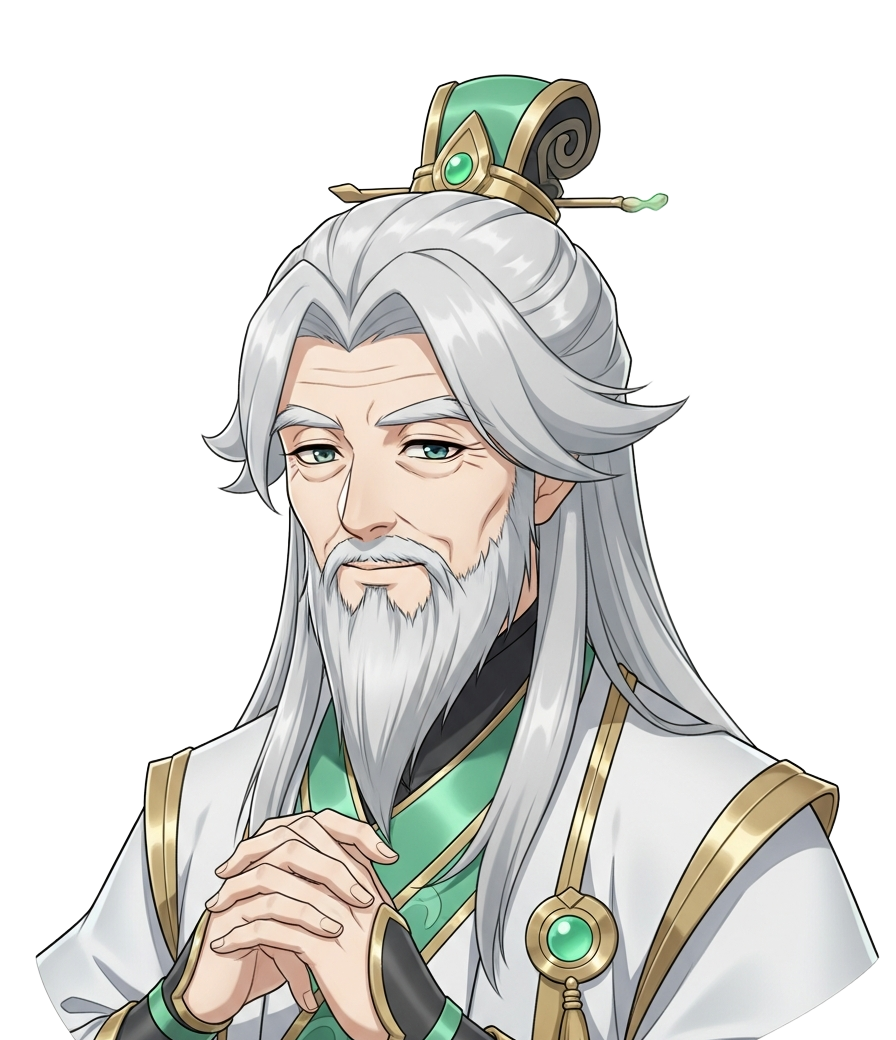
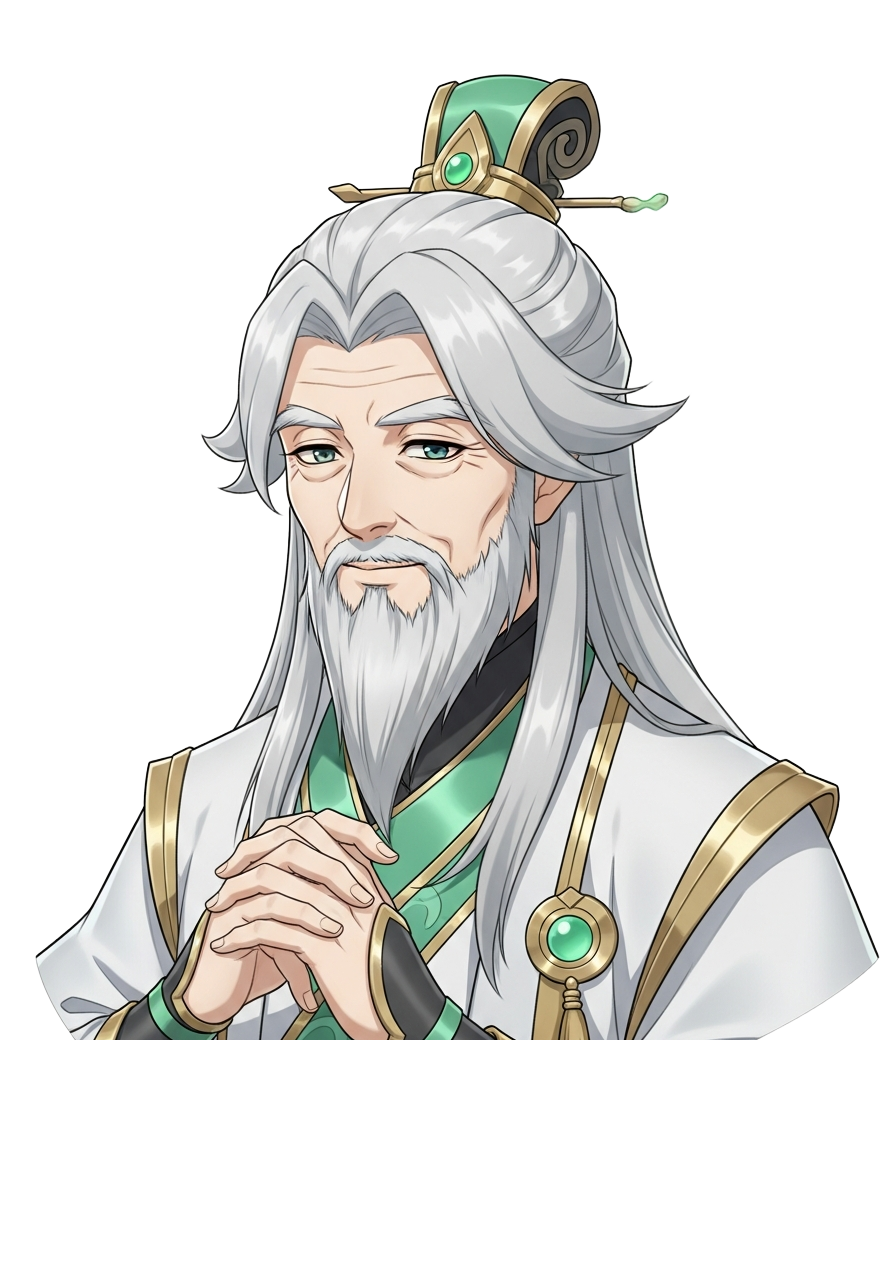
Update character sprites and portrait proportions for visual consistency
Refactors sprite asset paths, resizes VN portraits to a uniform 896x1280, and adjusts dialogue scene widths to better fit larger character art, while also fixing a broken asset reference for Florence Nightingale.

Replit-Commit-Author: Agent
Replit-Commit-Session-Id: 888092a9-07bb-434c-a266-2e5eb90ffa4c
Replit-Commit-Checkpoint-Type: full_checkpoint
Replit-Commit-Event-Id: 22db33e9-cb74-4f11-ac52-31f82e157579
Replit-Commit-Screenshot-Url: https://storage.googleapis.com/screenshot-production-us-central1/1a88ce60-54d7-432b-a038-dd5cf757c637/888092a9-07bb-434c-a266-2e5eb90ffa4c/aH6xCyU
Replit-Helium-Checkpoint-Created: true

diff --git a/frontend/src/components/HeroBattleSprites.ts b/frontend/src/components/HeroBattleSprites.ts
@@ -130,17 +130,17 @@ const BATTLE_SPRITES: Record<string, any> = {
   pattern_seer:                require('../../assets/heroes/battle/pattern_seer.png'),                // Pattern Seer
   environmental_seal_warden:   require('../../assets/heroes/battle/environmental_seal_warden.png'),   // Environmental Seal Warden
   chartweave_analyst:          require('../../assets/heroes/battle/chartweave_analyst.png'),          // Chartweave Analyst
-  florence_nightingale:        require('../../assets/heroes/battle/prologue_nightingale.png'),        // Florence Nightingale (shares prologue sprite)
+  florence_nightingale:        require('../../assets/images/nightingale_battle_sprite.png'),        // Florence Nightingale
 
   // ── Prologue loaner heroes (tutorial + scripted-loss boss) ──
-  prologue_nightingale:  require('../../assets/heroes/battle/prologue_nightingale.png'),  // Nightingale (prologue loaner — distinct from recruitable florence_nightingale)
-  prologue_fleming:      require('../../assets/heroes/battle/prologue_fleming.png'),      // Fleming (prologue loaner)
-  prologue_the_prodigy:  require('../../assets/heroes/battle/the_prodigy.png'),           // The Prodigy (prologue boss / peak-power self)
+  prologue_nightingale:  require('../../assets/images/nightingale_battle_sprite.png'),  // Nightingale (prologue loaner)
+  prologue_fleming:      require('../../assets/images/fleming_battle_sprite.png'),      // Fleming (prologue loaner)
+  prologue_the_prodigy:  require('../../assets/images/prodigy_battle_sprite.png'),      // The Prodigy (prologue boss / peak-power self)
 
   // ── The Prodigy aliases (former_self consolidated → the_prodigy) ──
-  the_prodigy:           require('../../assets/heroes/battle/the_prodigy.png'),           // The Prodigy
-  former_self:           require('../../assets/heroes/battle/the_prodigy.png'),           // The Prodigy (legacy alias)
-  prologue_former_self:  require('../../assets/heroes/battle/the_prodigy.png'),           // The Prodigy (legacy prologue alias)
+  the_prodigy:           require('../../assets/images/prodigy_battle_sprite.png'),      // The Prodigy
+  former_self:           require('../../assets/images/prodigy_battle_sprite.png'),      // The Prodigy (legacy alias)
+  prologue_former_self:  require('../../assets/images/prodigy_battle_sprite.png'),      // The Prodigy (legacy prologue alias)
 };
 
 // All battle-sprite modules, for cache preloading at game start.

diff --git a/frontend/src/components/HeroSprites.ts b/frontend/src/components/HeroSprites.ts
@@ -135,14 +135,14 @@ const SPRITES: Record<string, ImageSourcePropType> = {
   pattern_seer: require('../../assets/heroes/pattern_seer.png'),
   environmental_seal_warden: require('../../assets/heroes/environmental_seal_warden.png'),
   chartweave_analyst: require('../../assets/heroes/chartweave_analyst.png'),
-  florence_nightingale: require('../../assets/heroes/florence_nightingale.png'),
+  florence_nightingale: require('../../assets/images/nightingale_battle_sprite.png'),
 
   // Prologue loaner heroes — tutorial + boss battles
-  prologue_nightingale:  require('../../assets/heroes/florence_nightingale.png'),
-  prologue_fleming:      require('../../assets/images/fleming_vn_bust.png'),
+  prologue_nightingale:  require('../../assets/images/nightingale_battle_sprite.png'),
+  prologue_fleming:      require('../../assets/images/fleming_battle_sprite.png'),
   // The Prodigy — Former Self at peak legendary power (prologue pre-recall only)
-  prologue_the_prodigy:  require('../../assets/heroes/battle/the_prodigy.png'),
-  the_prodigy:           require('../../assets/heroes/battle/the_prodigy.png'),
+  prologue_the_prodigy:  require('../../assets/images/prodigy_battle_sprite.png'),
+  the_prodigy:           require('../../assets/images/prodigy_battle_sprite.png'),
 
   // The Prodigy — former self portrait card (dedicated loadout portrait)
   prologue_former_self:  require('../../assets/images/the_prodigy_portrait.png'),

diff --git a/frontend/src/game/prologueCharacters.ts b/frontend/src/game/prologueCharacters.ts
@@ -21,17 +21,17 @@ export interface PrologueCharacter {
   temporary:     boolean;
 }
 
-const PRODIGY_LARGE          = require("../../assets/images/prodigy_vn_canonical.png");
+const PRODIGY_LARGE          = require("../../assets/images/the_prodigy_portrait.png");
 const MASTER_BAI_ART         = require("../../assets/images/master_bai_vn.png");
 const NIGHTINGALE_LARGE      = require("../../assets/images/nightingale_vn_bust.png");
 const NIGHTINGALE_BUST       = require("../../assets/images/nightingale_vn_bust.png");
 const FLEMING_LARGE          = require("../../assets/images/fleming_vn.png");
 const FLEMING_BUST           = require("../../assets/images/fleming_vn_bust.png");
 
-const NIGHTINGALE_BATTLE = require("../../assets/heroes/battle/prologue_nightingale.png");
-const FLEMING_BATTLE     = require("../../assets/heroes/battle/prologue_fleming.png");
+const NIGHTINGALE_BATTLE = require("../../assets/images/nightingale_battle_sprite.png");
+const FLEMING_BATTLE     = require("../../assets/images/fleming_battle_sprite.png");
 const MASTER_BAI_BATTLE  = require("../../assets/images/master_bai_vn.png");
-const PRODIGY_BATTLE     = require("../../assets/heroes/battle/the_prodigy.png");
+const PRODIGY_BATTLE     = require("../../assets/images/prodigy_battle_sprite.png");
 
 export const PROLOGUE_CHARACTERS = {
   PRODIGY: {

diff --git a/frontend/src/components/prologue/SilentInfarctionRevealScene.tsx b/frontend/src/components/prologue/SilentInfarctionRevealScene.tsx
@@ -523,7 +523,7 @@ const styles = StyleSheet.create({
     right:          0,
     alignItems:     "flex-end",
     justifyContent: "flex-end",
-    width:          W * 0.80,
+    width:          W * 0.92,
     height:         H,
   },
   charArt: { width: "100%", height: "100%" },

diff --git a/frontend/src/components/prologue/FormerSelfIntroScene.tsx b/frontend/src/components/prologue/FormerSelfIntroScene.tsx
@@ -353,7 +353,7 @@ const s = StyleSheet.create({
     right:          0,
     alignItems:     "flex-end",
     justifyContent: "flex-end",
-    width:          W * 0.80,
+    width:          W * 0.92,
     height:         H,
   },
   charArt: { width: "100%", height: "100%" },

diff --git a/frontend/src/components/prologue/FormerSelfVictoryCutscene.tsx b/frontend/src/components/prologue/FormerSelfVictoryCutscene.tsx
@@ -286,7 +286,7 @@ const s = StyleSheet.create({
     right:          0,
     alignItems:     "flex-end",
     justifyContent: "flex-end",
-    width:          W * 0.80,
+    width:          W * 0.92,
     height:         H,
   },
   charArt: { width: "100%", height: "100%" },

diff --git a/frontend/src/components/prologue/WarningDialogueScene.tsx b/frontend/src/components/prologue/WarningDialogueScene.tsx
@@ -318,7 +318,7 @@ const s = StyleSheet.create({
     right:          0,
     alignItems:     "flex-end",
     justifyContent: "flex-end",
-    width:          W * 0.80,
+    width:          W * 0.92,
     height:         H,
   },
   charArt: { width: "100%", height: "100%" },
